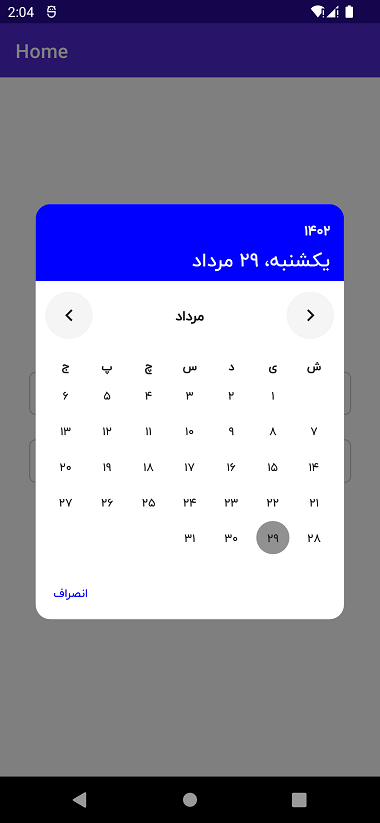
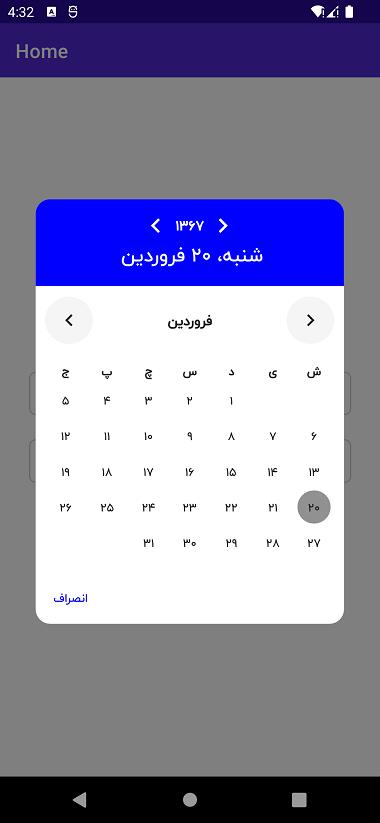
[FEATURES] add year navigation

diff --git a/PersianDatePickerMAUI/Pages/PersianCalendarPopupPage.xaml b/PersianDatePickerMAUI/Pages/PersianCalendarPopupPage.xaml
@@ -50,21 +50,72 @@
             StrokeThickness="0"
             Stroke="#ccc"
             WidthRequest="320"
-            HeightRequest="430"
+            HeightRequest="440"
             Background="#fff"
             VerticalOptions="CenterAndExpand">
         <VerticalStackLayout BindingContext="{x:Reference this}">
 
-            <StackLayout HeightRequest="80"
-                     Background="blue"
-                     Padding="15">
-                <Label Text="{Binding Year}"
-                   TextColor="White"
-                   FontAttributes="Bold"/>
-                <Label Text="{Binding ShortName}"
-                   TextColor="White"
-                   FontSize="20"
-                   Margin="0,0,0,15"/>
+            <StackLayout HeightRequest="90"
+                         Background="blue"
+                         Padding="15">
+
+                <StackLayout>
+                    <Grid RowDefinitions="*"
+                          ColumnDefinitions="*,Auto,*"
+                          RowSpacing="10"
+                          HorizontalOptions="Center">
+
+                        <Label Grid.Column="1"
+                               Text="{Binding Year}"
+                               TextColor="White"
+                               FontAttributes="Bold"
+                               VerticalOptions="Center"/>
+                        <Border Grid.Column="0"
+                                WidthRequest="30"
+                                HeightRequest="30"
+                                StrokeShape="RoundRectangle 15"
+                                StrokeThickness="0"
+                                Background="transparent"
+                                VerticalOptions="Center"
+                                HorizontalOptions="End"
+                                Margin="0,0,5,0">
+                            <Label Text="{x:Static helpers:IconFont.Keyboard_arrow_right}"
+                                   FontFamily="materialIcon"
+                                   FontSize="30"
+                                   TextColor="#fff"
+                                   VerticalOptions="Center"
+                                   HorizontalOptions="Center"/>
+                            <Border.GestureRecognizers>
+                                <TapGestureRecognizer Command="{Binding PrevYearCommand}"/>
+                            </Border.GestureRecognizers>
+                        </Border>
+                        <Border Grid.Column="2"
+                                WidthRequest="30"
+                                HeightRequest="30"
+                                StrokeShape="RoundRectangle 15"
+                                StrokeThickness="0"
+                                Background="transparent"
+                                VerticalOptions="Center"
+                                HorizontalOptions="Start"
+                                Margin="5,0,0,0">
+                            <Label Text="{x:Static helpers:IconFont.Keyboard_arrow_left}"
+                                   FontFamily="materialIcon"
+                                   FontSize="30"
+                                    TextColor="#fff"
+                                   VerticalOptions="Center"
+                                   HorizontalOptions="Center"/>
+                            <Border.GestureRecognizers>
+                                <TapGestureRecognizer Command="{Binding NextYearCommand}"/>
+                            </Border.GestureRecognizers>
+                        </Border>
+                    </Grid>
+
+                    <Label Text="{Binding ShortName}"
+                           HorizontalOptions="Center"
+                           TextColor="White"
+                           FontSize="20"
+                           Margin="0,0,5,5"/>
+                </StackLayout>
             </StackLayout>
 
             <StackLayout Padding="10">

diff --git a/PersianDatePickerMAUI/Pages/PersianCalendarPopupPage.xaml.cs b/PersianDatePickerMAUI/Pages/PersianCalendarPopupPage.xaml.cs
@@ -22,6 +22,8 @@ public partial class PersianCalendarPopupPage
     public ICommand SelectDateCommand { get; set; }
     public ICommand NextMonthCommand { get; set; }
     public ICommand PrevMonthCommand { get; set; }
+    public ICommand NextYearCommand { get; set; }
+    public ICommand PrevYearCommand { get; set; }
     public PersianCalendarPopupPage(string date, string identifier)
     {
         _identifier = identifier;
@@ -30,6 +32,8 @@ public partial class PersianCalendarPopupPage
         SelectDateCommand = new Command<int>(SelectDate);
         NextMonthCommand = new Command(NextMonth);
         PrevMonthCommand = new Command(PrevMonth);
+        NextYearCommand = new Command(NextYear);
+        PrevYearCommand = new Command(PrevYear);
         InitializeComponent();
     }
 
@@ -42,6 +46,22 @@ public partial class PersianCalendarPopupPage
             WeakReferenceMessenger.Default.Send(new PersianDatePickerMessageTransfer($"{_identifier}#{result}"));
             MopupService.Instance.PopAsync();
         }
+    }
+    void NextYear()
+    {
+        var dateSplited = PersianDate.Split('/');
+        int.TryParse(dateSplited[0], out int year);
+        year++;
+        PersianDate = $"{year.ToString("D4")}/{dateSplited[1]}/{dateSplited[2]}";
+        InitItemSource(); ;
+    }
+    void PrevYear()
+    {
+        var dateSplited = PersianDate.Split('/');
+        int.TryParse(dateSplited[0], out int year);
+        year--;
+        PersianDate = $"{year.ToString("D4")}/{dateSplited[1]}/{dateSplited[2]}";
+        InitItemSource(); ;
     }
     void NextMonth()
     {
